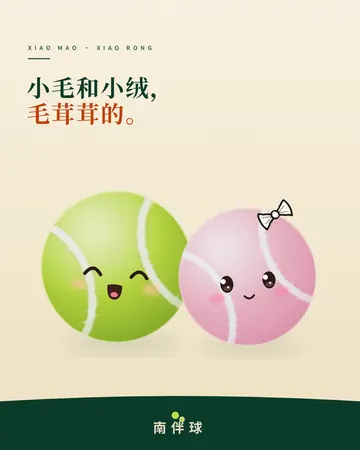
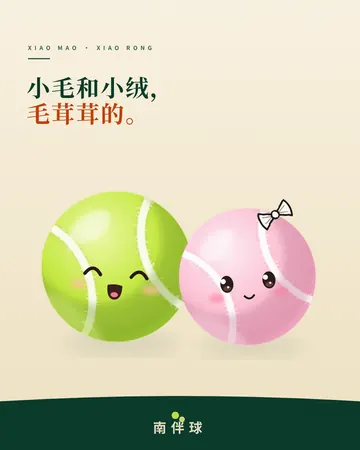
小毛小绒 v4.3：动漫风光滑球面，去掉颗粒
Claude-Session: https://claude.ai/code/session_01Vg2RCbjYppFezKGzdwzEXB

diff --git a/marketing/mao4.py b/marketing/mao4.py
@@ -101,7 +101,7 @@ def fuzzball(id, cx, cy, r, pal, seed=1, rot=-22, dens=1.0):
         f'<radialGradient id="fs{id}" cx=".34" cy=".28" r=".98"><stop offset=".58" stop-color="{lo}" stop-opacity="0"/><stop offset="1" stop-color="{_mix(lo, "#3A1020" if pal is PINK_P else "#1F3A00", .35)}" stop-opacity=".55"/></radialGradient>'
         f'<radialGradient id="hl{id}" cx=".3" cy=".24" r=".5"><stop offset="0" stop-color="#fff" stop-opacity=".42"/><stop offset="1" stop-color="#fff" stop-opacity="0"/></radialGradient>'
         f'<clipPath id="bc{id}"><circle r="{r}"/></clipPath>'
-        f'<filter id="sf{id}" x="-20%" y="-20%" width="140%" height="140%"><feTurbulence type="fractalNoise" baseFrequency=".09" numOctaves="2" seed="{seed}" result="n"/><feDisplacementMap in="SourceGraphic" in2="n" scale="2.6"/><feGaussianBlur stdDeviation=".45"/></filter>'
+        f'<filter id="sf{id}" x="-20%" y="-20%" width="140%" height="140%"><feTurbulence type="fractalNoise" baseFrequency=".09" numOctaves="2" seed="{seed}" result="n"/><feDisplacementMap in="SourceGraphic" in2="n" scale="1.2"/><feGaussianBlur stdDeviation=".45"/></filter>'
         f'<filter id="sb{id}" x="-20%" y="-20%" width="140%" height="140%"><feGaussianBlur stdDeviation="2.2"/></filter>'
         f'<filter id="ed{id}" x="-10%" y="-10%" width="120%" height="120%"><feTurbulence type="fractalNoise" baseFrequency="{.9/max(r,40)*40:.2f}" numOctaves="2" seed="{seed+3}" result="n"/><feDisplacementMap in="SourceGraphic" in2="n" scale="{max(1.2, .03*r):.1f}"/></filter>'
         f'</defs>')
@@ -121,11 +121,23 @@ def fuzzball(id, cx, cy, r, pal, seed=1, rot=-22, dens=1.0):
         f'<feTurbulence type="fractalNoise" baseFrequency="{fr*.9:.2f}" numOctaves="3" seed="{seed+9}" result="n"/>'
         f'<feDisplacementMap in="SourceGraphic" in2="n" scale="{ds*1.9:.1f}" xChannelSelector="R" yChannelSelector="G"/>'
         f'<feGaussianBlur stdDeviation="{max(1., .01*r):.2f}"/></filter>')
-    return (defs + f'<defs>{felt}</defs><g transform="translate({cx:.1f} {cy:.1f})">'
-            f'<circle r="{r*1.0:.1f}" fill="{mid}" opacity=".55" filter="url(#gl{id})"/>'
-            f'<g filter="url(#fz{id})"><circle r="{r}" fill="url(#bg{id})"/>'
-            f'<g clip-path="url(#bc{id})"><g transform="scale({u})">{seam_svg}</g></g></g>'
-            f'<g clip-path="url(#bc{id})"><circle r="{r}" fill="url(#fs{id})"/><circle r="{r}" fill="url(#hl{id})"/></g></g>')
+    sh_c = _mix(lo, "#3A1020" if pal is PINK_P else "#1F3A00", .25)
+    rim = _mix(mid, hh, .5)
+    return (defs + f'<defs>{felt}'
+            f'<filter id="sm{id}" x="-5%" y="-5%" width="110%" height="110%"><feGaussianBlur stdDeviation="{max(.35, .002*r):.2f}"/></filter>'
+            f'<filter id="sg{id}" x="-20%" y="-20%" width="140%" height="140%"><feGaussianBlur stdDeviation="{.05*r:.1f}"/></filter>'
+            f'<filter id="sp{id}" x="-30%" y="-30%" width="160%" height="160%"><feGaussianBlur stdDeviation="{.035*r:.1f}"/></filter></defs>'
+            f'<g transform="translate({cx:.1f} {cy:.1f})">'
+            f'<circle r="{r*1.012:.1f}" fill="{mid}" opacity=".22" filter="url(#gl{id})"/>'
+            f'<g filter="url(#sm{id})"><circle r="{r}" fill="url(#bg{id})"/>'
+            f'<g clip-path="url(#bc{id})"><g transform="scale({u})">{seam_svg}</g>'
+            # 赛璐璐式柔和暗部：右下一弯月牙
+            f'<circle cx="{-.30*r:.1f}" cy="{-.34*r:.1f}" r="{1.12*r:.1f}" fill="none" stroke="{sh_c}" stroke-width="{.5*r:.1f}" opacity=".38" filter="url(#sg{id})" transform="translate({.0*r:.1f} 0)"/>'
+            # 左下反光边
+            f'<ellipse cx="{-.55*r:.1f}" cy="{.78*r:.1f}" rx="{.55*r:.1f}" ry="{.2*r:.1f}" fill="{rim}" opacity=".42" filter="url(#sg{id})" transform="rotate(35 {-.55*r:.1f} {.78*r:.1f})"/>'
+            # 左上高光
+            f'<ellipse cx="{-.40*r:.1f}" cy="{-.50*r:.1f}" rx="{.30*r:.1f}" ry="{.17*r:.1f}" fill="#fff" opacity=".55" filter="url(#sp{id})" transform="rotate(-38 {-.40*r:.1f} {-.50*r:.1f})"/>'
+            f'</g></g></g>')
 
 
 def face4(id, cx, cy, r, mood='smile', look=0, pal=LIME_P):

diff --git a/.claude/skills/nanbanqiu-poster/SKILL.md b/.claude/skills/nanbanqiu-poster/SKILL.md
@@ -65,7 +65,7 @@ def svg():
 - **字标圆点是荧光黄绿**：在黄绿 / 浅色大色块上看不见，底部加一条深色条再放 `wordmark`（50、58、67 踩过）。
 - **冷知识海报做法**（68–72）：先挖网球事实（只用真的，拿不准写「相传」），再用网球物件承载：球当钟面（70）、两球当 0（68）、球罐成分表（69）、球网剖面加标注线（71）、红土球印加粉笔圈（72）；画面里留 2–3 处可细看的小标注。
 - **批量出图节奏**：一次 heredoc 写 3–4 个 `pNN_*.py`，`build.py --only` 一次出，Read 逐张看，只改被发现的缺陷，再统一改张数（`sed` CLAUDE.md / 进度记录.md / 本文件）、`--check`、`site.mjs`、`site.js`、提交推送、`SendUserFile` 发图。
-- **角色「小毛」**：**用 v4（82–83）**，`marketing/mao4.py` 的 `figure4(id,cx,cy,r,pose,mood,char,gy=…)`：毛毡质感球（SVG 噪声滤镜：边缘微抖动 + 软光晕 + 细颗粒光照；不要再画一圈毛须，用户说边缘不自然；小毛头顶不要毛）、婴儿比例大眼睛（无睫毛）、嫩棉花糖粉 `PINK_P`、手脚更短；合照见 p82。**v3（78–81，`mao3.py`）球面太光滑像蛋、睫毛和比例被用户说奇怪，别再用**；以下姿势 / 笔触规则 v3、v4 通用。v3 说明：`figure3(id,cx,cy,r,pose,mood,char)`；两个角色：**小毛（男，`char='mao'`，头顶一小撮毛，嘴硬心软）/ 小绒（女，`char='rong'`，**一颗粉色的球**（`mao3.ball_c` + `PINK`）+ 奶油白小蝴蝶结 + 睫毛 + 玫瑰色腮红，话多守时；不要再画马尾、裙子）**，是好朋友；小绒用名字姿势时左右镜像（动作手在左，不和马尾打架）；合照用 dict 姿势 + `gy` 定地面线（见 p80）；：写实荧光球 + 33–36 同款脸（`mao2.face2`，眼睛用黑色）+ **只用黑色手写细线画手脚**（`pen` 双笔触 + `rough2` 抖动；手是小圆圈，脚是小椭圆球鞋，脚下一笔地面线）。**必须放浅色底**（奶油 `#FBF4E3→#F1E3C4`），黑线才看得见；浅色底字标圆点看不见，底部做深绿弧形条再放字标；标题用深绿 + `#C2410C`。pose=wave/cheer/plead/racket/wow/sorry/sleep；mood=smile/happy/cheer/wow/plead/wink/sweat/sleep；坐、抓绳等特殊姿势用 `pen/hand3/shoe3` 自己拼（见 p79）。v1（73–75 冷面脸）用户说「看起来不舒服、奇怪」，v2（76–77 黄绿粗手脚）用户说「球长手长脚奇怪」，**都别再用**。脸用 `face3`（face2 + 细眉毛 + 小绒睫毛 + 睡着的鼻泡）；细节：鞋带、求约的闪光星、歪头。口吻：陈述句、句号收尾、无感叹号。
+- **角色「小毛」**：**用 v4（82–83）**，`marketing/mao4.py` 的 `figure4(id,cx,cy,r,pose,mood,char,gy=…)`：动漫赛璐璐风光滑球（渐变 + 柔和暗部 + 高光 + 反光，球缝带细绒；不要毛须、不要噪点颗粒，用户都说不自然 / 疙瘩；小毛头顶不要毛）、婴儿比例大眼睛（无睫毛）、嫩棉花糖粉 `PINK_P`、手脚更短；合照见 p82。**v3（78–81，`mao3.py`）球面太光滑像蛋、睫毛和比例被用户说奇怪，别再用**；以下姿势 / 笔触规则 v3、v4 通用。v3 说明：`figure3(id,cx,cy,r,pose,mood,char)`；两个角色：**小毛（男，`char='mao'`，头顶一小撮毛，嘴硬心软）/ 小绒（女，`char='rong'`，**一颗粉色的球**（`mao3.ball_c` + `PINK`）+ 奶油白小蝴蝶结 + 睫毛 + 玫瑰色腮红，话多守时；不要再画马尾、裙子）**，是好朋友；小绒用名字姿势时左右镜像（动作手在左，不和马尾打架）；合照用 dict 姿势 + `gy` 定地面线（见 p80）；：写实荧光球 + 33–36 同款脸（`mao2.face2`，眼睛用黑色）+ **只用黑色手写细线画手脚**（`pen` 双笔触 + `rough2` 抖动；手是小圆圈，脚是小椭圆球鞋，脚下一笔地面线）。**必须放浅色底**（奶油 `#FBF4E3→#F1E3C4`），黑线才看得见；浅色底字标圆点看不见，底部做深绿弧形条再放字标；标题用深绿 + `#C2410C`。pose=wave/cheer/plead/racket/wow/sorry/sleep；mood=smile/happy/cheer/wow/plead/wink/sweat/sleep；坐、抓绳等特殊姿势用 `pen/hand3/shoe3` 自己拼（见 p79）。v1（73–75 冷面脸）用户说「看起来不舒服、奇怪」，v2（76–77 黄绿粗手脚）用户说「球长手长脚奇怪」，**都别再用**。脸用 `face3`（face2 + 细眉毛 + 小绒睫毛 + 睡着的鼻泡）；细节：鞋带、求约的闪光星、歪头。口吻：陈述句、句号收尾、无感叹号。
 - 常量 `W H SERIF SANS C`，以及 `math` `random` 已导入。
 
 ## 经验和坑

diff --git a/.claude/skills/nanbanqiu-poster/品味手册.md b/.claude/skills/nanbanqiu-poster/品味手册.md
@@ -92,3 +92,4 @@
 - 10-29 小绒 v3 反馈：睫毛奇怪、比例奇怪、球面太光滑像蛋、粉色不够嫩 → v4：去睫毛，球要毛茸茸（毛须 + 纤维），粉用棉花糖粉，眼睛大而圆、手脚短。
 - 10-29 v4 首版毛须边缘被说不自然、小毛头顶三根毛画蛇添足 → 改毡面质感（边缘软、不画毛须），小毛头上不加东西。
 - 10-29 毡面颗粒太粗「疙疙瘩瘩没美感」→ 颗粒要细、起伏小（surfaceScale≈.75，频率高并轻微模糊），像天鹅绒。
+- 10-29 毡面颗粒再被说「疙疙瘩瘩」→ 球面走动漫赛璐璐风：光滑渐变 + 柔和暗部 + 左上高光 + 左下反光，不加噪点颗粒；绒感只靠球缝上的几根细绒和很淡的边缘光晕。
